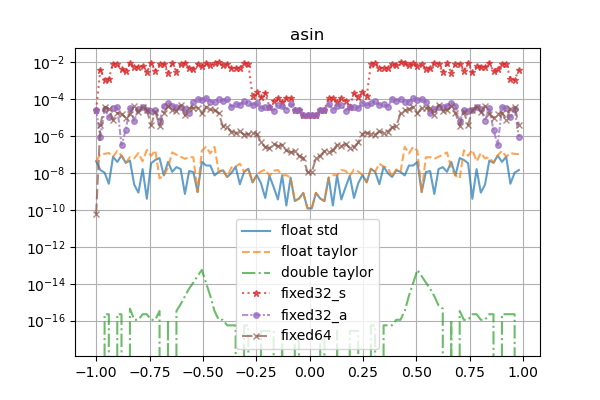
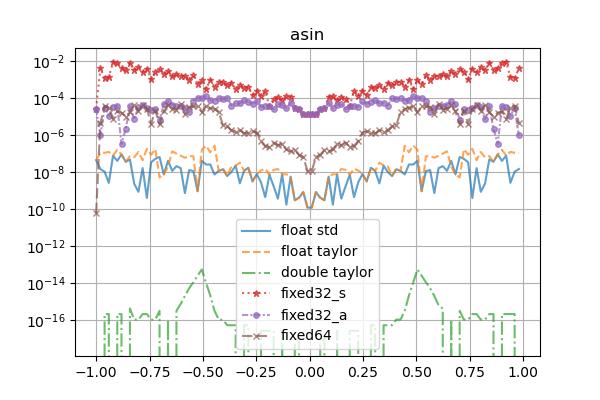
Fixed searching switching point between serieses in the asin function

diff --git a/src/lib/taylormath.h b/src/lib/taylormath.h
@@ -200,7 +200,7 @@ namespace taylor {
 
     template<typename T>
     T calculate_asin_half() {
-        T test = div_by_pow2<T>(1, 2);
+        T test = div_by_pow2<T>(1, 1);
         T half = test;
         while (test > 0) {
             test = div_by_pow2<T>(test, 1);

diff --git a/Readme.md b/Readme.md
@@ -89,19 +89,19 @@ std::cout << (fixed64)x + y << std::endl;
 ### Speed comparision (microseconds per 100000 operations on ESP32C3@160MHz)
 
 <table><thead><th><th>addition</th><th>subtraction</th><th>multiplication</th><th>division</th><th>sin</th><th>sqrt</th><th>asin</th><th>log</th><th>exp</th></tr></thead><tbody>
-<tr><th>fixed32_s</th><td>6981</td><td>6914</td><td>6298</td><td>38997</td><td>210320</td><td>21003</td><td>120320</td><td>64945</td><td>303384</td>
+<tr><th>fixed32_s</th><td>6968</td><td>6915</td><td>6298</td><td>38997</td><td>210320</td><td>21003</td><td>106477</td><td>64946</td><td>303379</td>
 
 </tr>
-<tr><th>fixed32_a</th><td>6948</td><td>6922</td><td>15728</td><td>201885</td><td>317344</td><td>21247</td><td>126838</td><td>65423</td><td>391425</td>
+<tr><th>fixed32_a</th><td>6964</td><td>6922</td><td>15727</td><td>201890</td><td>317346</td><td>21247</td><td>113273</td><td>65423</td><td>391420</td>
 
 </tr>
-<tr><th>fixed64</th><td>13238</td><td>12586</td><td>21383</td><td>206312</td><td>874292</td><td>25047</td><td>434619</td><td>311185</td><td>1438529</td>
+<tr><th>fixed64</th><td>13238</td><td>12586</td><td>21383</td><td>206306</td><td>874299</td><td>25047</td><td>300869</td><td>311184</td><td>1438529</td>
 
 </tr>
-<tr><th>float</th><td>101469</td><td>105844</td><td>163523</td><td>255333</td><td>2047598</td><td>347396</td><td>537888</td><td>1543883</td><td>2036340</td>
+<tr><th>float</th><td>101469</td><td>105844</td><td>163517</td><td>255333</td><td>2047593</td><td>347401</td><td>537889</td><td>1543884</td><td>2036340</td>
 
 </tr>
-<tr><th>double</th><td>118823</td><td>121312</td><td>288669</td><td>494616</td><td>3052356</td><td>627819</td><td>846884</td><td>2358329</td><td>3022996</td>
+<tr><th>double</th><td>118846</td><td>121312</td><td>288670</td><td>494615</td><td>3052356</td><td>627820</td><td>846884</td><td>2358328</td><td>3022996</td>
 
 </tr>
 </tbody></table>
